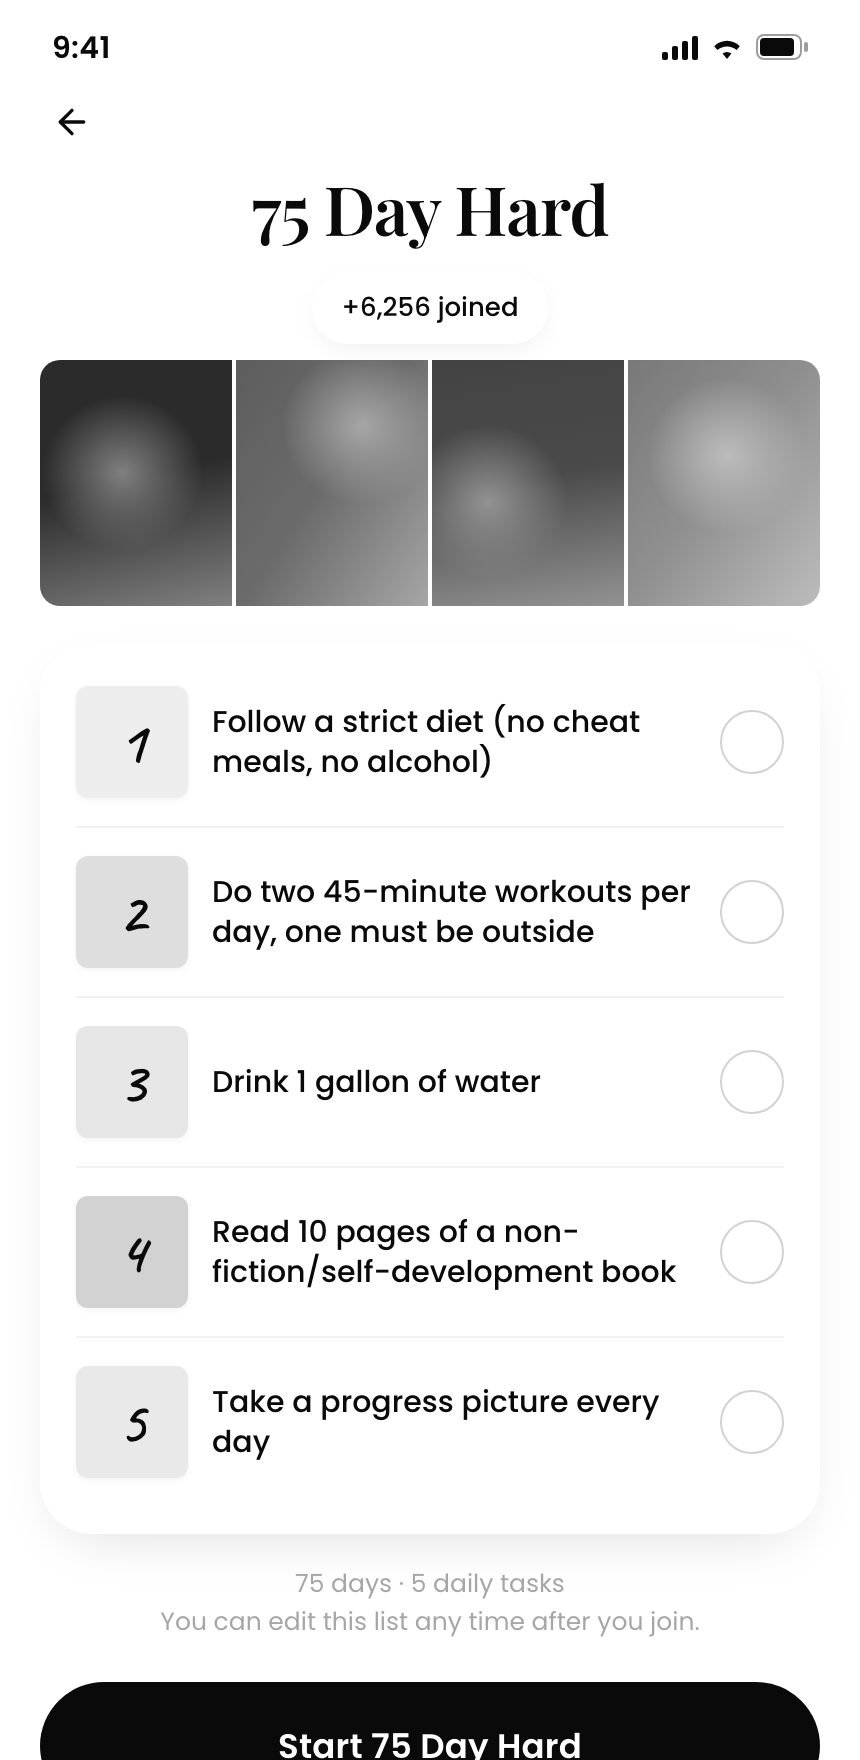
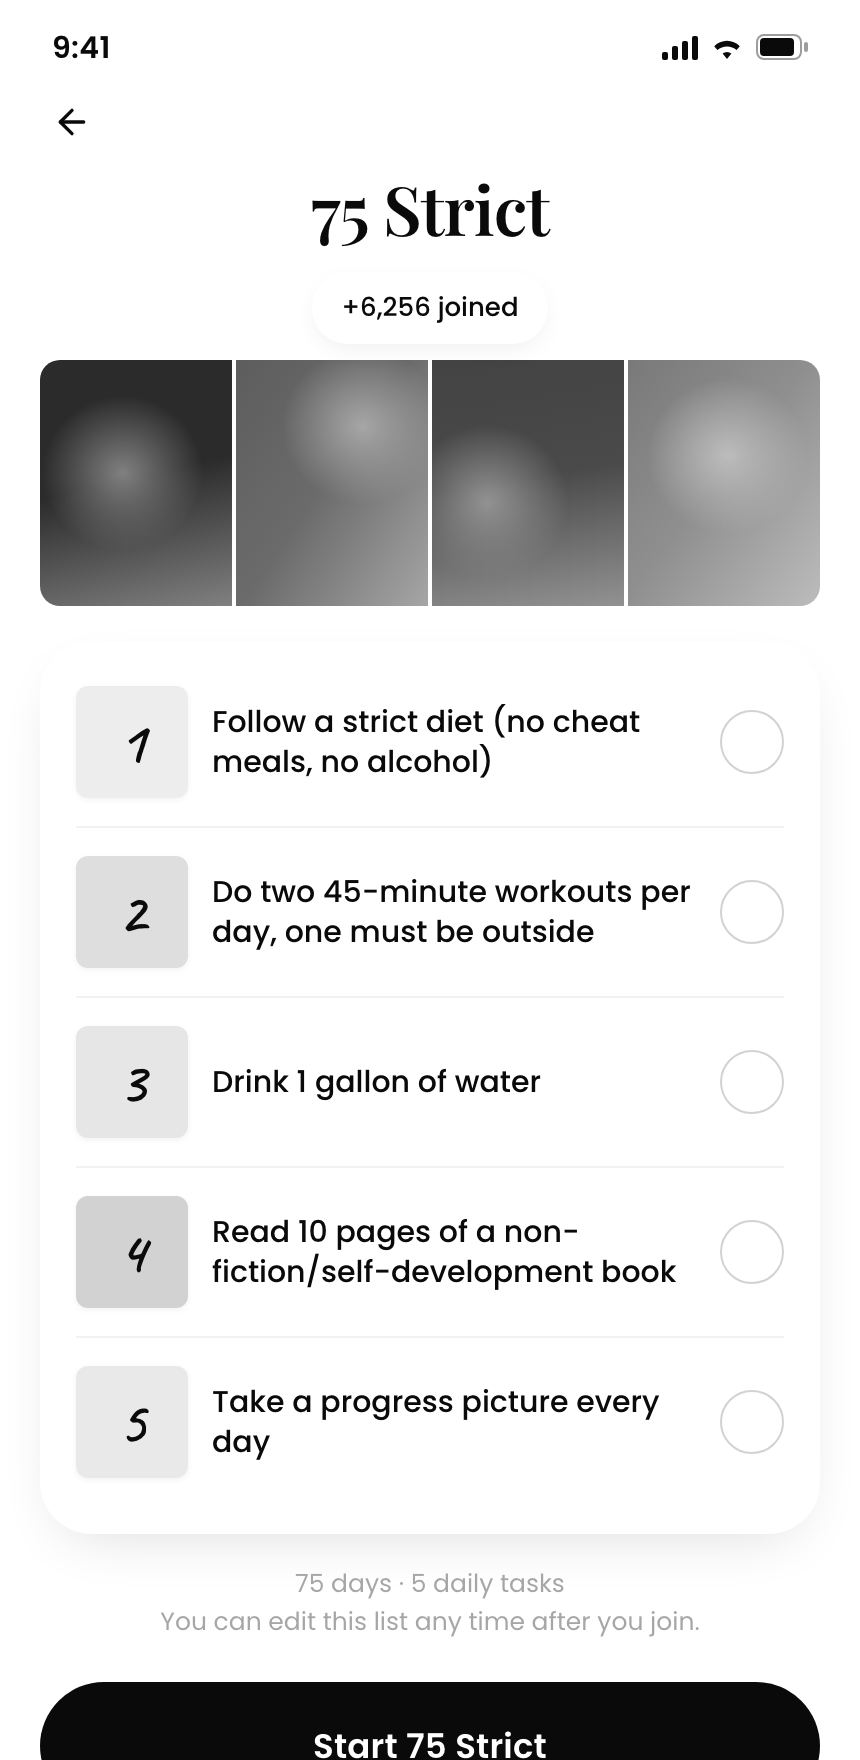
Drop the 75 Hard name — King's call on the trademark
"75 HARD" is Andy Frisella's registered mark. It was the app's
hardest preset, the first App Store keyword, and a line in the
description — the three most exposed places a mark can sit. King
decided it goes, overriding my read that the ASO value outweighed
the risk.

Renamed to 75 Strict, which describes the thing accurately and sits
in a difficulty ladder with 75 Medium and 75 Soft. Keywords lose
"75 hard" and pick up "75 day challenge" and "75 medium" instead,
96 of the 100 characters.

Two of the six store screenshots showed the old name, so all of them
were regenerated — a screenshot that no longer matches the app is a
2.3.3 rejection on its own.

Playbook's age-rating section corrected while here: ASC now runs a
seven-step questionnaire with a Health or Wellness Topics question
the old table did not have. Answering it honestly gives 9+, not the
4+ I predicted. JA caught this; the note now says so rather than
leaving the next person to rediscover it.

Claude-Session: https://claude.ai/code/session_018C9xQwzrZSWhcVwAr8vDtd

Changed region(s): [[0.3023, 0.0938, 0.7256, 0.1562], [0.3326, 0.9688, 0.6953, 1.0]]

diff --git a/docs/index.html b/docs/index.html
@@ -115,8 +115,8 @@
   from scratch and pick its length.</p>
 
   <h3>I missed a day. Did I fail?</h3>
-  <p>JojoT does not reset your count when you miss a day. The traditional 75 Hard
-  rules say start over; we leave that between you and your conscience.</p>
+  <p>JojoT does not reset your count when you miss a day. The traditional rules
+  say start over; we leave that between you and your conscience.</p>
 
   <h3>Is this medical or fitness advice?</h3>
   <p>No. JojoT is a habit tracker. It does not diagnose, treat or prevent

diff --git a/src/screens/Paywall.tsx b/src/screens/Paywall.tsx
@@ -33,7 +33,7 @@ import { haptic } from '../lib/haptics'
 import { linkHandler } from '../lib/openUrl'
 
 const PERKS = [
-  'Every challenge — 75 Hard, Medium, Soft & more',
+  'Every challenge — 75 Strict, Medium, Soft & more',
   'Build your own challenge and to-do list',
   'Water, steps & daily progress pictures',
   'Share your day as a progress card',

diff --git a/src/lib/data.ts b/src/lib/data.ts
@@ -51,8 +51,8 @@ const MOOD = {
 export const CHALLENGES: Challenge[] = [
   {
     id: 'hard',
-    name: '75 Day Hard',
-    short: '75 Hard',
+    name: '75 Strict',
+    short: '75 Strict',
     tagline: 'no compromises, no excuses',
     days: 75,
     intensity: 'hard',

diff --git a/comms/LAUNCH-PLAYBOOK.md b/comms/LAUNCH-PLAYBOOK.md
@@ -55,9 +55,9 @@ Pick a 75-day challenge or write your own. One list a day, water, steps and a da
 ### Keywords(100 字符上限,逗号分隔,不要空格)
 
 ```
-75 hard,75 soft,challenge,habit,tracker,streak,daily,routine,water,steps,discipline,checklist
+75 day challenge,75 soft,75 medium,challenge,habit,tracker,streak,routine,water,steps,discipline
 ```
-*(93 字符)*
+*(96 字符)*
 
 ### Description
 
@@ -70,7 +70,7 @@ Seventy-five days. One list a day. JojoT keeps the promise you keep making to yo
 Pick a challenge and work through its list every day — or write your own from scratch. Every day you finish fills in, until the whole run is there in front of you.
 
 CHOOSE YOUR CHALLENGE
-• 75 Day Hard — no compromises, no excuses
+• 75 Strict — no compromises, no excuses
 • 75 Medium — the balanced middle path
 • 75 Soft — gentle, sustainable, kind to your body
 • Glow Within — radiance from the inside out
@@ -180,7 +180,13 @@ First release.
 ※※ ⚠ **必须选 None,而且 app 内外都不能出现医疗声明**(治疗、缓解疼痛、预防损伤、康复、理疗、医疗级)。写了就会被划进 EU MDR 监管范围。描述里已经明确写了「not medical advice」。
 ※※※ 社群聊天已从 v1.0 移除,没有任何用户生成内容,也没有用户之间的交流。
 
-预期结果:**4+**
+⚠ **实测更正(2026-08-11,JA 报告):ASC 换成了新版 7 步问卷**,多了一题
+上表没有的 **「Health or Wellness Topics」**(self-care / 生活方式建议)。
+预设挑战确实属于生活方式建议,**如实答 Yes**。
+
+**因此实际分级是 9+,不是本表原先预期的 4+。** 这是正确结果 ——
+竞品 Her 75 也是 9+。不要为了压到 4+ 而谎报。
+Medical or Treatment Information 仍然选 **None**,Override 选 Not Applicable。
 
 ---
 

diff --git a/README.md b/README.md
@@ -22,7 +22,7 @@ There is no free tier: subscribing or restoring a purchase is the only way in.
 | --- | --- |
 | **Onboarding** | Three editorial slides (*Keep the promise* / *One list, every day* / *Watch it add up*) then your name |
 | **Paywall** | Weekly $7.99 · Monthly $14.99 · Yearly $49.99, Restore Purchases, auto-renewal disclosure, Terms & Privacy |
-| **Select your challenge** | 75 Day Hard, 75 Medium, 75 Soft, Glow Within, Better Me, Sugar Free, Mental Wellness — plus **Create your own** |
+| **Select your challenge** | 75 Strict, 75 Medium, 75 Soft, Glow Within, Better Me, Sugar Free, Mental Wellness — plus **Create your own** |
 | **Challenge detail** | `+N joined` pill, mood board, the numbered sticky-note rule list, join CTA |
 | **Today** | `Day N`, day-scrubber segments, your editable to-do list with live water / step / photo readouts, share card |
 | **Water** | Tumbler that fills, ±250 ml, quick adds, goal taken from the active challenge, auto-ticks the water task at 100% |

diff --git a/comms/JA-BRIEF.md b/comms/JA-BRIEF.md
@@ -5,7 +5,7 @@
 
 ## 这是什么 app
 
-**JojoT** —— 75 天挑战打卡 App。选一个挑战(75 Hard / 75 Medium / 75 Soft /
+**JojoT** —— 75 天挑战打卡 App。选一个挑战(75 Strict / 75 Medium / 75 Soft /
 Glow Within / Better Me / Sugar Free / Mental Wellness,或自建),每天勾完一张
 待办清单,追踪喝水、步数、每日进度照片,并能看到朋友的清单。
 
